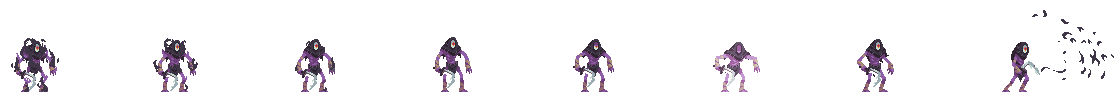
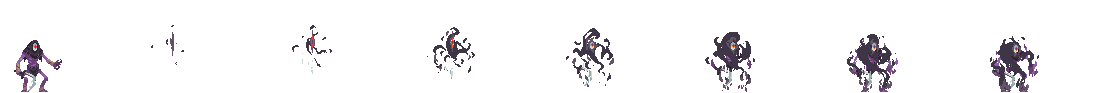
updated animations for bod

diff --git a/client/misc/animator.py b/client/misc/animator.py
@@ -2,7 +2,7 @@ import pygame
 from misc.logger import log
 
 class Tileset:
-    def __init__(self, mainLoop, file, size=(64, 64), start=0, stop=0, upscale=1, callback=None) -> None:
+    def __init__(self, mainLoop, file, size=(64, 64), start=0, stop=0, upscale=1, callback=None, reverse=False) -> None:
         """
         Init a tile set
             file: file path relative to client (actual images must be on 1 line)
@@ -18,6 +18,7 @@ class Tileset:
         self.start = start
         self.stop = stop
         self.callback = callback
+        self.reverse = reverse
         self.current_tile_index = start
 
         if mainLoop.cachedImages.getImage(file) is None:
@@ -49,13 +50,14 @@ class Tileset:
 
     def increment(self) -> pygame.Surface:
         """Incrementally go through all tiles. Return the current tile"""
-        tile = self.tiles[self.current_tile_index]
+        tile = self.tiles[self.stop - self.current_tile_index] if self.reverse else self.tiles[self.current_tile_index]
         if self.current_tile_index + 1 <= self.stop:
             self.current_tile_index += 1 
         else:
             if self.callback:
                 self.callback()
             self.current_tile_index = self.start
+        
         return tile
     
     def reset(self):

diff --git a/client/objects/bringer_of_death.py b/client/objects/bringer_of_death.py
@@ -10,7 +10,7 @@ class BringerOfDeath(GenericEnemy):
         self.mainLoop = mainLoop
         self.tilesets = {
             "run": Tileset(mainLoop, "assets/images/bod/walk.png", (140, 93), 0, 7, self.pyro),
-            "death": Tileset(mainLoop, "assets/images/bod/death.png", (140, 93), 0, 7, self.pyro),
+            "death": Tileset(mainLoop, "assets/images/bod/death.png", (140, 93), 1, 7, self.pyro, reverse=True),
             "attack": Tileset(mainLoop, "assets/images/bod/attack.png", (140, 93), 0, 7, self.pyro)
         }
         self.tile_fps = {
